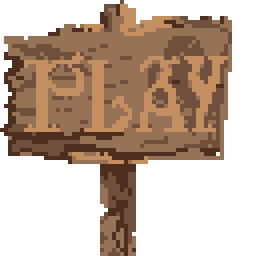
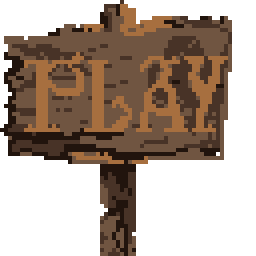
Superclase Objeto agregada/ LetreroPlay más oscuro

diff --git a/core/src/mx/rueschan/videojuego/Objeto.java b/core/src/mx/rueschan/videojuego/Objeto.java
@@ -1,0 +1,22 @@
+package mx.rueschan.videojuego;
+
+import com.badlogic.gdx.graphics.Texture;
+import com.badlogic.gdx.graphics.g2d.Sprite;
+import com.badlogic.gdx.graphics.g2d.SpriteBatch;
+
+/**
+ * Created by Jonathan on 15/02/2017.
+ */
+
+public class Objeto {
+    protected Sprite sprite;
+
+    public Objeto(Texture textura, float x, float y){
+        sprite = new Sprite(textura);
+        sprite.setPosition(x,y);
+    }
+
+    public void dibujar(SpriteBatch batch){
+        sprite.draw(batch);
+    }
+}
